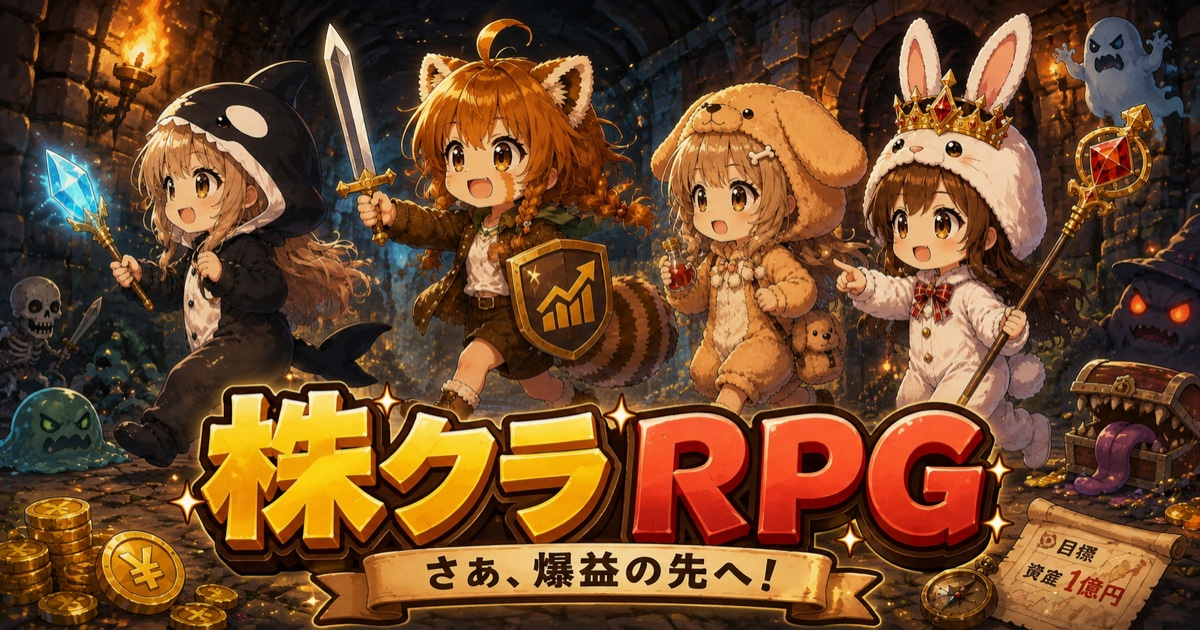
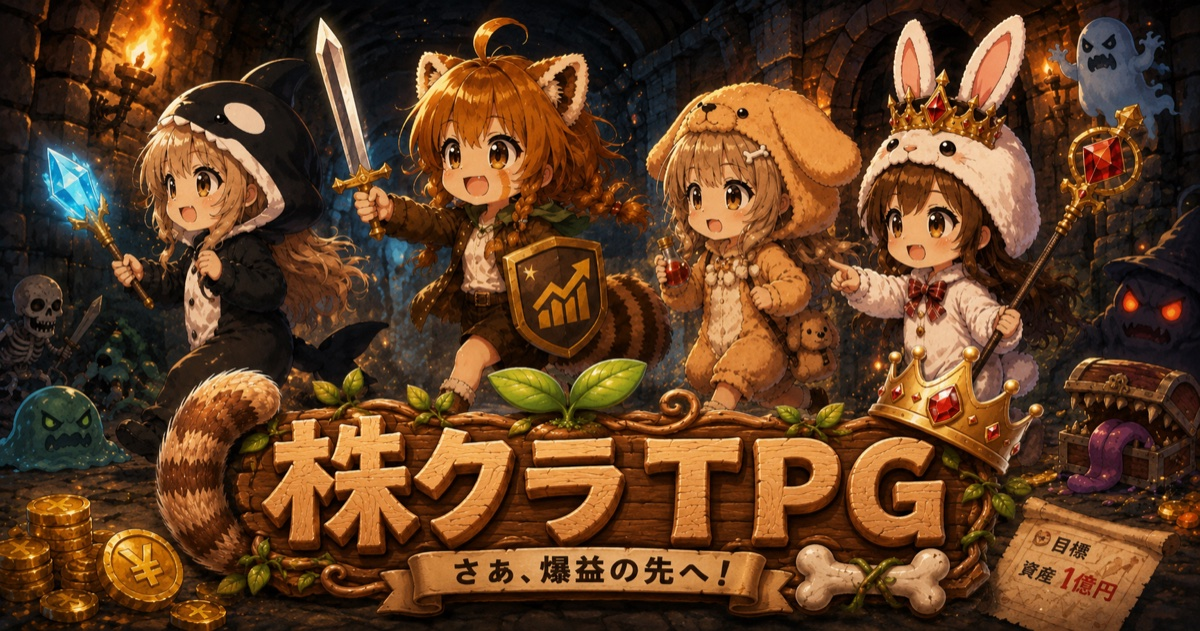
タイトルのロゴと、画像差し替え

diff --git a/index.html b/index.html
@@ -39,10 +39,16 @@
     --face-clear:  100px;   /* クリア画面のロスター */
     --face-profile: 96px;   /* 人物紹介のカード */
 
+    /* タイトルロゴ。幅を基準に、高さは画像の比率のまま伸びる。
+       --logo-h は保険の上限で、極端に縦長のロゴが来てもレイアウトが
+       壊れないようにするためのもの（通常はここに当たらない）。 */
+    --logo-w: 360px;
+    --logo-h: 200px;
+
     /* タイトル画面の縦積み要素の横幅。IME警告の文言が収まる幅を基準にしている。 */
     --title-control-w: 360px;
     /* その4要素の縦の間隔。ここ1箇所で等間隔が決まる。 */
-    --title-control-gap: 24px;
+    --title-control-gap: 12px;
   }
 
   * { box-sizing: border-box; }
@@ -104,6 +110,16 @@
     text-align: center;
   }
 
+  /* ロゴ。幅は固定、高さは比率のまま。縦長のロゴが来ても
+     max-height と contain で枠を超えない（レイアウトが破綻しない）。 */
+  #title-logo {
+    width: var(--logo-w);
+    height: auto;               /* 比率はそのまま */
+    max-height: var(--logo-h);
+    object-fit: contain;        /* 上限に当たった場合も比率を崩さない */
+    display: block;
+  }
+
   #title-heading {
     font-size: 48px;
     font-weight: bold;
@@ -112,16 +128,11 @@
     margin: 0;
   }
 
-  #title-lead {
-    font-size: 18px;
-    margin: 0 0 14px;
-    opacity: 0.9;
-  }
-
   #title-roster {
     display: flex;
     gap: 44px;
-    margin-bottom: 18px;
+    margin-top: 10px;
+    margin-bottom: 14px;
   }
 
   .roster-member {
@@ -629,8 +640,8 @@
 
   <!-- タイトル画面 -->
   <section class="screen" id="screen-title">
-    <h1 id="title-heading"></h1>
-    <p id="title-lead">投資の呪文を詠唱して、4人に挑戦しよう</p>
+    <img id="title-logo" src="assets/logo.png" alt="">
+    <h1 id="title-heading" hidden></h1>
     <div id="title-roster"></div>
     <div id="title-controls">
       <button class="btn" id="btn-start">はじめる（Enter）</button>
@@ -1217,6 +1228,23 @@ const state = {
 
 document.getElementById("title-heading").textContent = TITLE;
 document.title = TITLE;
+
+/** ロゴが無い（読み込めない）ときは TITLE から作ったテキスト見出しに切り替える。 */
+(function setupLogo() {
+  const img     = document.getElementById("title-logo");
+  const heading = document.getElementById("title-heading");
+  img.alt = TITLE;
+
+  img.addEventListener("load", () => {
+    img.hidden = false;
+    heading.hidden = true;
+  });
+
+  img.addEventListener("error", () => {
+    img.hidden = true;
+    heading.hidden = false;
+  });
+})();
 
 function buildTitleRoster() {
   const box = document.getElementById("title-roster");
